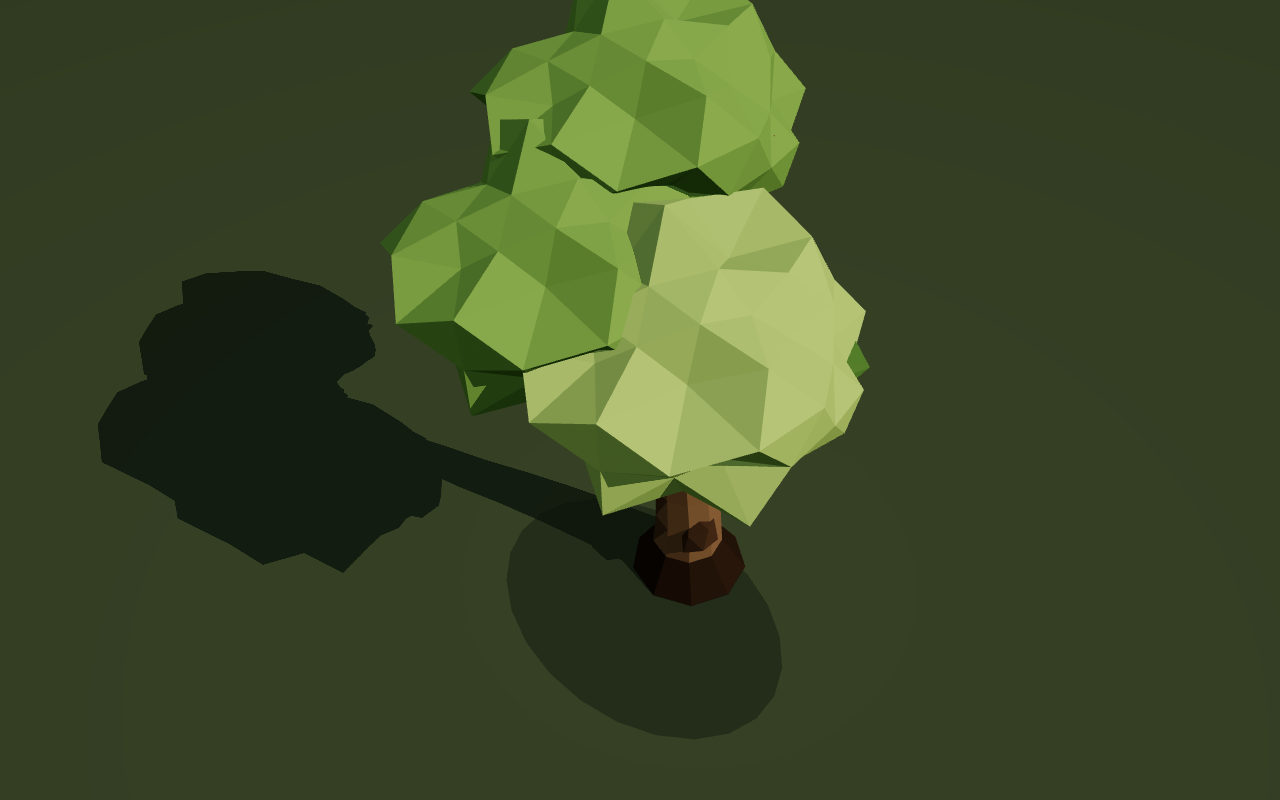
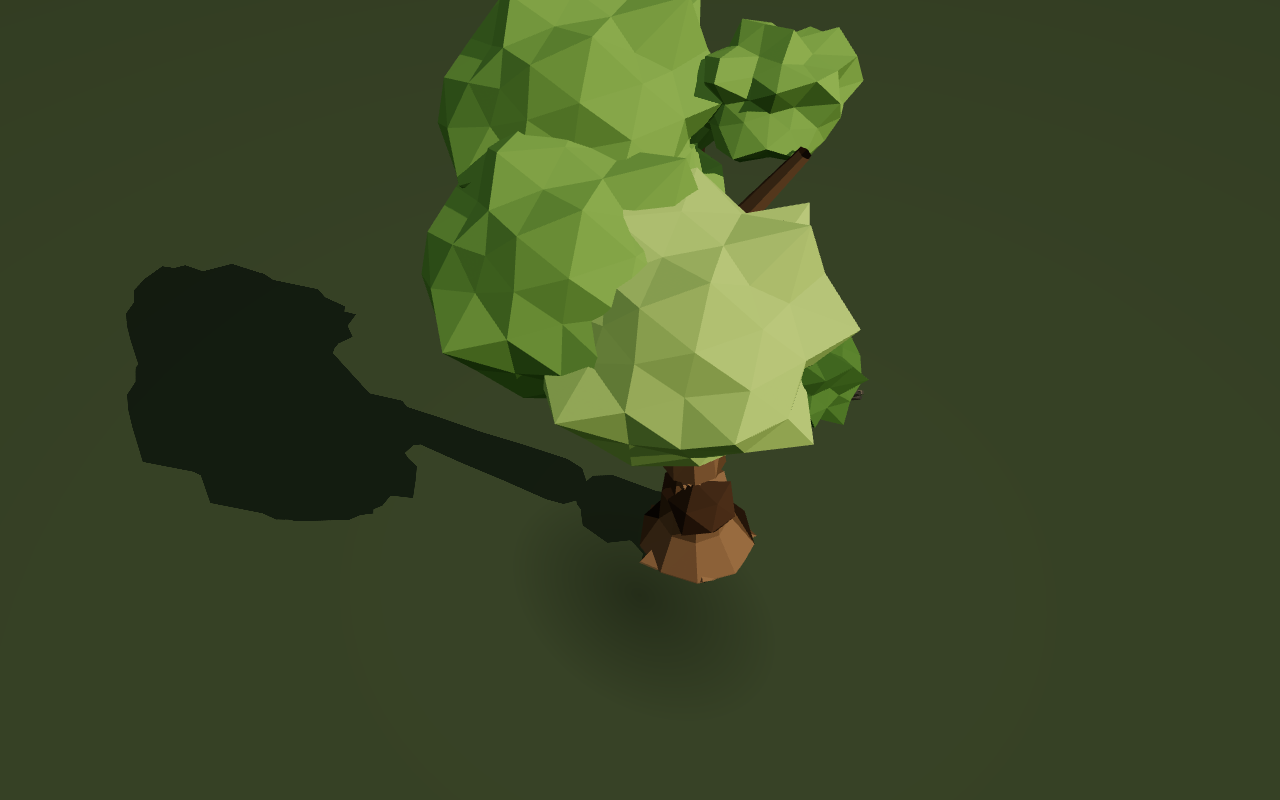
assets: fix the black hairlines at the root — loft rings were never oriented
Round 5. Closes the fatal defect the art director rejected in rounds 1-3, with
capture evidence rather than a passing test.

THE ROOT CAUSE. loft() built every ring axis-aligned:

    ring.pos.x + cos(t)*r,  ring.pos.y,  ring.pos.z + sin(t)*r

which is correct only for a vertical spine. A branch at 77 degrees off vertical
came out as a SHEARED, near-collapsed sheet instead of a tube, and its faces sat
so close to coplanar that both the lambert term and the hemisphere term went to
~0. That is where the "1px black hairlines" came from: not degenerate triangles,
but real surfaces with no usable orientation. Proof: rendered unlit with
MeshBasicMaterial the same limb showed its correct tan vertex colours, so the
geometry and the palette were never at fault. Rings are now built in the plane
perpendicular to the local spine direction, with handedness chosen to reproduce
the old vertical layout exactly (mirroring it flips every normal inward and the
whole trunk renders in shade — caught mid-fix).

The other two hairline sources, both in snag:
- "Vertical cracks" were free-floating 3-sided rods, 3.5cm thick and up to 2.6u
  long, pushed 0.45 radially OUT of the trunk and painted the darkest tier.
  At hero there were exactly three — the "three perfectly straight black lines"
  in trees-scorecard-3. A crack is a groove IN bark: they now hug the spine,
  seat inside the surface and are wide enough to read as shadow.
[…]

Changed region(s): [[0.0625, 0.0, 0.6875, 0.7812]]

diff --git a/assets/library/src/kit/geometry.ts b/assets/library/src/kit/geometry.ts
@@ -162,19 +162,85 @@ export interface LoftRing {
  * dislocate at joints and read as stacked prisms. Ring basis is the fixed
  * horizontal pair (X, Z) — trunks curve gently, so rings stay near-level.
  */
-export function loft(rings: readonly LoftRing[], sides: number): THREE.BufferGeometry {
-  if (rings.length < 2) throw new Error('loft: need >= 2 rings');
+/** A loft ring closer than this to its predecessor contributes only slivers. */
+const MIN_RING_GAP = 0.02;
+/** A ring thinner than this collapses its cap to a hairline. */
+const MIN_RING_R = 0.03;
+
+export function loft(ringsIn: readonly LoftRing[], sides: number): THREE.BufferGeometry {
+  if (ringsIn.length < 2) throw new Error('loft: need >= 2 rings');
+  // Degenerate-geometry gate, applied HERE so every species inherits it (see
+  // degenerate.test.ts). Two failure modes, both of which rasterise to the 1px
+  // black hairlines the art director rejected in round 3:
+  //   - consecutive rings almost coincident -> a band of zero-height quads;
+  //   - a ring radius near zero -> a tip that is a line, not a spike.
+  // Collapsing the first and clamping the second costs nothing visible: the
+  // dropped rings were sub-2cm apart and the clamped tips sub-3cm wide.
+  const rings: LoftRing[] = [];
+  for (const ring of ringsIn) {
+    const r = Math.max(ring.radius, MIN_RING_R);
+    const prev = rings[rings.length - 1];
+    if (prev !== undefined && prev.pos.distanceTo(ring.pos) < MIN_RING_GAP) {
+      // keep the WIDER of the two so a taper never gains girth at its tip
+      if (r > prev.radius) rings[rings.length - 1] = { pos: prev.pos, radius: r };
+      continue;
+    }
+    rings.push({ pos: ring.pos, radius: r });
+  }
+  if (rings.length < 2) {
+    // everything collapsed into one ring: re-open it along its own axis so the
+    // caller still gets a solid, however small, rather than a flat disc
+    const only = rings[0] ?? ringsIn[0]!;
+    rings.length = 0;
+    rings.push({ pos: only.pos, radius: Math.max(only.radius, MIN_RING_R) });
+    rings.push({
+      pos: new THREE.Vector3(only.pos.x, only.pos.y + MIN_RING_GAP, only.pos.z),
+      radius: Math.max(only.radius, MIN_RING_R),
+    });
+  }
   const positions: number[] = [];
   const indices: number[] = [];
-  for (const ring of rings) {
+  // Each ring is laid out in the plane PERPENDICULAR to the local spine
+  // direction. Building every ring axis-aligned (the original behaviour) is
+  // correct only for a vertical trunk: a limb at 77 degrees off vertical came
+  // out as a SHEARED, near-collapsed sheet rather than a tube, and its faces
+  // ended up so close to coplanar that both the lambert term and the hemisphere
+  // term went to ~0 — the limb rendered as a flat black slab, and thinner ones
+  // as the 1px black "hairlines" the art director rejected in rounds 1-3. The
+  // colours were always right; the surface had no usable orientation.
+  // Handedness matters: the original axis-aligned ring ran (cos, 0, sin) about
+  // +Y, and reproducing that exactly for a vertical spine is what keeps every
+  // face winding — and therefore every outward normal — as authored. Getting it
+  // mirrored flips the normals inward and the whole trunk renders in shade.
+  const yRef = new THREE.Vector3(0, 1, 0);
+  const zRef = new THREE.Vector3(0, 0, 1); // fallback when the spine IS +/-Y
+  const dir = new THREE.Vector3();
+  const u = new THREE.Vector3();
+  const v2 = new THREE.Vector3();
+  for (let r = 0; r < rings.length; r++) {
+    const ring = rings[r]!;
+    const prev = rings[r - 1];
+    const next = rings[r + 1];
+    // central difference inside the run, one-sided at the ends
+    if (prev !== undefined && next !== undefined) dir.subVectors(next.pos, prev.pos);
+    else if (next !== undefined) dir.subVectors(next.pos, ring.pos);
+    else if (prev !== undefined) dir.subVectors(ring.pos, prev.pos);
+    else dir.copy(yRef);
+    if (dir.lengthSq() < 1e-12) dir.copy(yRef);
+    dir.normalize();
+    // dir x ref, then u x dir: for dir=+Y this yields u=(1,0,0), v=(0,0,1) —
+    // byte-identical to the old vertical layout.
+    u.crossVectors(dir, Math.abs(dir.y) > 0.99 ? zRef : yRef).normalize();
+    v2.crossVectors(u, dir); // unit: u and dir are orthonormal
     for (let i = 0; i < sides; i++) {
       const t = (i / sides) * Math.PI * 2;
-      const v = new THREE.Vector3(
-        ring.pos.x + Math.cos(t) * ring.radius,
-        ring.pos.y,
-        ring.pos.z + Math.sin(t) * ring.radius,
+      const ct = Math.cos(t) * ring.radius;
+      const st = Math.sin(t) * ring.radius;
+      positions.push(
+        ring.pos.x + u.x * ct + v2.x * st,
+        ring.pos.y + u.y * ct + v2.y * st,
+        ring.pos.z + u.z * ct + v2.z * st,
       );
-      positions.push(v.x, v.y, v.z);
     }
   }
   for (let r = 0; r < rings.length - 1; r++) {
@@ -378,7 +444,34 @@ export function mergeAll(parts: readonly Part[]): THREE.BufferGeometry {
   });
   const merged = mergeGeometries(prepared, false);
   if (!merged) throw new Error('mergeAll: incompatible attributes across parts');
+  groundWind(merged);
   return merged;
+}
+
+/**
+ * Fade `aBend` to nothing at the ground.
+ *
+ * Bend is authored per PART, against that part's own height — which is
+ * meaningful for a trunk rooted at 0 and meaningless for a limb whose base is
+ * 3u up and whose local "height" is its own 2u length. A drooping low limb
+ * therefore claimed trunk-top sway, and anything it dipped near the soil swayed
+ * with it. World position only exists after the merge, so this is the first
+ * point where the real invariant — geometry at the ground does not move — can
+ * be enforced at all. Only the bottom ~1u is touched; canopy bend is untouched,
+ * so the wind stays as lively as it was authored.
+ */
+function groundWind(g: THREE.BufferGeometry): void {
+  const pos = g.getAttribute('position');
+  const bend = g.getAttribute('aBend');
+  if (pos === undefined || bend === undefined) return;
+  let maxY = 0;
+  for (let i = 0; i < pos.count; i++) maxY = Math.max(maxY, pos.getY(i));
+  const fade = Math.min(0.9, Math.max(0.15, maxY * 0.12)); // short assets fade sooner
+  for (let i = 0; i < pos.count; i++) {
+    const t = Math.min(1, Math.max(0, pos.getY(i) / fade));
+    bend.setX(i, bend.getX(i) * (t * t * (3 - 2 * t))); // smoothstep
+  }
+  bend.needsUpdate = true;
 }
 
 /** transform helpers (chain via multiply) */

diff --git a/assets/library/src/trees/snag.ts b/assets/library/src/trees/snag.ts
@@ -25,12 +25,23 @@ export const SNAG_META: AssetMeta = {
   heightRange: budgetFor('snag').height,
 };
 
-/** Splinter spike: thin 3-sided spike from a rim point, jagged by design. */
+/**
+ * Splinter spike: a 3-sided shard from a rim point, jagged by design.
+ *
+ * Sized to read as WOOD, not wire. At the old 9cm base tapering to 2.5cm over
+ * a 2.1u spike, the faces turned away from the sun rendered as ~1px black
+ * streaks — the "black hairlines" the art director rejected in round 3. The
+ * geometry was never degenerate (it passes the thinness gate); it was simply
+ * too narrow for a shaded face to read as a surface, so a lit shard and an
+ * unlit one looked like different objects. A 5-sided profile also keeps a
+ * shadowed face from occupying a third of the silhouette.
+ */
 function splinter(base: Vector3, dir: Vector3, len: number, r: number): BufferGeometry {
   const g = loft([
     { pos: base.clone(), radius: r },
-    { pos: base.clone().addScaledVector(dir, len), radius: 0.025 },
-  ], 3);
+    { pos: base.clone().addScaledVector(dir, len * 0.55), radius: r * 0.62 },
+    { pos: base.clone().addScaledVector(dir, len), radius: Math.max(0.075, r * 0.4) },
+  ], 5);
   return g;
 }
 
@@ -73,14 +84,21 @@ function snagTree(next: Next, quality: Quality, variationId: string): SpeciesRes
     const a = next() * Math.PI * 2;
     const r = chain.rings[Math.floor(t0 * (chain.rings.length - 1))]!.radius;
     const base = chain.at(t0);
-    const dirV = chain.dirAt(t0).multiplyScalar(0.9).add(
-      new Vector3(Math.cos(a) * 0.45, 0, Math.sin(a) * 0.45),
-    ).normalize();
+    // A crack is a GROOVE IN the bark, so it runs along the trunk and sits
+    // inside the surface. It used to be pushed 0.45 radially OUT and modelled
+    // 3.5cm thick, which produced a free-floating pencil-thin rod in the
+    // darkest tier — rendered, that is a 1px black line hanging in the air,
+    // and at hero there were exactly three of them: the "three perfectly
+    // straight black lines" the art director rejected in round 3. Hugging the
+    // spine and widening it turns the same intent into a readable shadow line.
+    const dirV = chain.dirAt(t0).normalize();
     const len = height * (0.16 + next() * 0.12);
+    const seat = base.clone().add(new Vector3(Math.cos(a) * r * 0.82, 0, Math.sin(a) * r * 0.82));
     const g = loft([
-      { pos: base.clone().add(new Vector3(Math.cos(a) * r * 0.92, 0, Math.sin(a) * r * 0.92)), radius: 0.035 },
-      { pos: base.clone().add(new Vector3(Math.cos(a) * r * 0.92, 0, Math.sin(a) * r * 0.92)).addScaledVector(dirV, len), radius: 0.022 },
-    ], 3);
+      { pos: seat.clone(), radius: 0.075 },
+      { pos: seat.clone().addScaledVector(dirV, len * 0.5), radius: 0.065 },
+      { pos: seat.clone().addScaledVector(dirV, len), radius: 0.05 },
+    ], 5);
     paint(g, lightning ? P.knotHole : P.deadwoodDeep, 0.4);
     parts.push({ geom: g });
     anchors.push(tipOf(base, dirV, len + 0.4));
@@ -99,7 +117,7 @@ function snagTree(next: Next, quality: Quality, variationId: string): SpeciesRes
       const baseR = chain.rings[chain.rings.length - 1]!.radius;
       const base = chain.top.clone().add(new Vector3(Math.cos(a) * baseR * 0.6, 0, Math.sin(a) * baseR * 0.6));
       const dirV = new Vector3(Math.cos(a) * 0.35, 1, Math.sin(a) * 0.35).normalize();
-      const sp = splinter(base, dirV, len, 0.09);
+      const sp = splinter(base, dirV, len, 0.17);
       paint(sp, lightning && near > 0.7 ? P.knotHole : P.deadwood, 0.55);
       parts.push({ geom: sp });
       anchors.push(tipOf(base, dirV, len));
@@ -131,7 +149,7 @@ function snagTree(next: Next, quality: Quality, variationId: string): SpeciesRes
         const sDir = dirV.clone().add(new Vector3(
           Math.cos(sa) * 0.5, 0.15 + next() * 0.2, Math.sin(sa) * 0.5,
         )).normalize();
-        const sp = splinter(tip, sDir, 0.3 + next() * 0.4, 0.08);
+        const sp = splinter(tip, sDir, 0.3 + next() * 0.4, 0.13);
         paint(sp, s % 2 ? P.deadwoodLit : P.deadwood, 0.5);
         parts.push({ geom: sp });
         anchors.push(tipOf(tip, sDir, 0.7));

diff --git a/assets/library/src/degenerate.test.ts b/assets/library/src/degenerate.test.ts
@@ -1,15 +1,23 @@
 // The degenerate-mesh gate (judge round 3, non-negotiable): no triangle in
-// any shipped asset may have an edge below the world-space threshold —
-// sub-cm faces render as 1px black hairlines and read as a broken mesh.
+// any shipped asset may be thinner than the world-space threshold — such
+// faces render as 1px black hairlines and read as a broken mesh.
+//
+// The metric is triangle ALTITUDE (2*area / longest edge), i.e. how WIDE the
+// sliver is, NOT edge length. An earlier version of this gate measured the
+// shortest edge and was vacuous against the very defect it is named after:
+// three nearly-collinear points at 0, 0.5 and 1.0 along a line have edges
+// 0.5/0.5/1.0 — every one of them comfortably above any edge threshold —
+// while enclosing zero area and rasterising to exactly the black hairline the
+// judge rejected. Area is what aliases; length is not.
 import { describe, expect, it } from 'vitest';
 import { ASSETS } from './registry';
 
-const MIN_EDGE = 0.014; // 1.4 cm — below this, faces alias to hairlines
+const MIN_THICKNESS = 0.014; // 1.4 cm of WIDTH — below this, faces alias to hairlines
 
 describe('degenerate mesh gate', () => {
   for (const asset of ASSETS) {
     for (const v of asset.meta.variations) {
-      it(`${asset.meta.id}/${v.id}: no edge below ${MIN_EDGE * 100}cm (hero)`, () => {
+      it(`${asset.meta.id}/${v.id}: no face thinner than ${MIN_THICKNESS * 100}cm (hero)`, () => {
         const built = asset.buildVariation(v.id, 'hero');
         const pos = built.mesh.geometry.getAttribute('position');
         const triCount = pos.count / 3;
@@ -22,9 +30,24 @@ describe('degenerate mesh gate', () => {
           const e1 = Math.hypot(ax - bx, ay - by, az - bz);
           const e2 = Math.hypot(bx - cx, by - cy, bz - cz);
           const e3 = Math.hypot(cx - ax, cy - ay, cz - az);
-          worst = Math.min(worst, e1, e2, e3);
+          const longest = Math.max(e1, e2, e3);
+          if (longest === 0) {
+            worst = 0; // a point: fully collapsed
+            continue;
+          }
+          // |AB x AC| / 2 is the area; twice it over the longest edge is the
+          // altitude to that edge — the sliver's width, in world units.
+          const ux = bx - ax, uy = by - ay, uz = bz - az;
+          const vx = cx - ax, vy = cy - ay, vz = cz - az;
+          const cxp = uy * vz - uz * vy;
+          const cyp = uz * vx - ux * vz;
+          const czp = ux * vy - uy * vx;
+          worst = Math.min(worst, Math.hypot(cxp, cyp, czp) / longest);
         }
-        expect(worst, `${asset.meta.id}/${v.id}: min edge ${worst.toFixed(4)} < ${MIN_EDGE}`).toBeGreaterThanOrEqual(MIN_EDGE);
+        expect(
+          worst,
+          `${asset.meta.id}/${v.id}: thinnest face ${worst.toFixed(5)} < ${MIN_THICKNESS}`,
+        ).toBeGreaterThanOrEqual(MIN_THICKNESS);
       });
     }
   }

diff --git a/assets/library/src/trees/pine.ts b/assets/library/src/trees/pine.ts
@@ -11,6 +11,9 @@ import { TREE_PALETTE as P } from '../kit/palette';
 import type { AssetMeta, AssetModule, Quality } from '../types';
 import { budgetFor, growChain, makeSpecies, type SpeciesResult } from './_shared';
 
+/** Even rim samples per skirt; must out-resolve the lobe count (7 at hero). */
+const RIM_ANCHORS = 12;
+
 export const PINE_META: AssetMeta = {
   id: 'pine',
   category: 'tree',
@@ -110,6 +113,16 @@ function pineTree(next: Next, quality: Quality, variationId: string): SpeciesRes
     const sH = height * (0.26 - t * 0.1);
     const color = t > 0.66 ? P.pineLit : t > 0.28 ? P.pineBase : P.pineDark;
     const s = lobedSkirt(next, y, radius, sH, quality === 'hero' ? 7 : 5, sides, color);
+    // The rim IS this tier's attachment surface, and lobing swings it between
+    // roughly 0.8 and 1.25 of `radius`. It used to reach the spine only where
+    // tufts happened to sit — 5-8 JITTERED samples — so whole lobe PEAKS went
+    // unrecorded and attached skirt geometry read as detached debris. Sample it
+    // evenly, independently of the tufts. (No next() calls: the seed stream —
+    // and therefore every existing silhouette — is untouched.)
+    for (let a = 0; a < RIM_ANCHORS; a++) {
+      const r = s.rimAt(a / RIM_ANCHORS);
+      anchors.push(new Vector3(r.x, y, r.z));
+    }
     parts.push({ geom: s.geom });
     skirtGeoms.push(s.geom);
 
